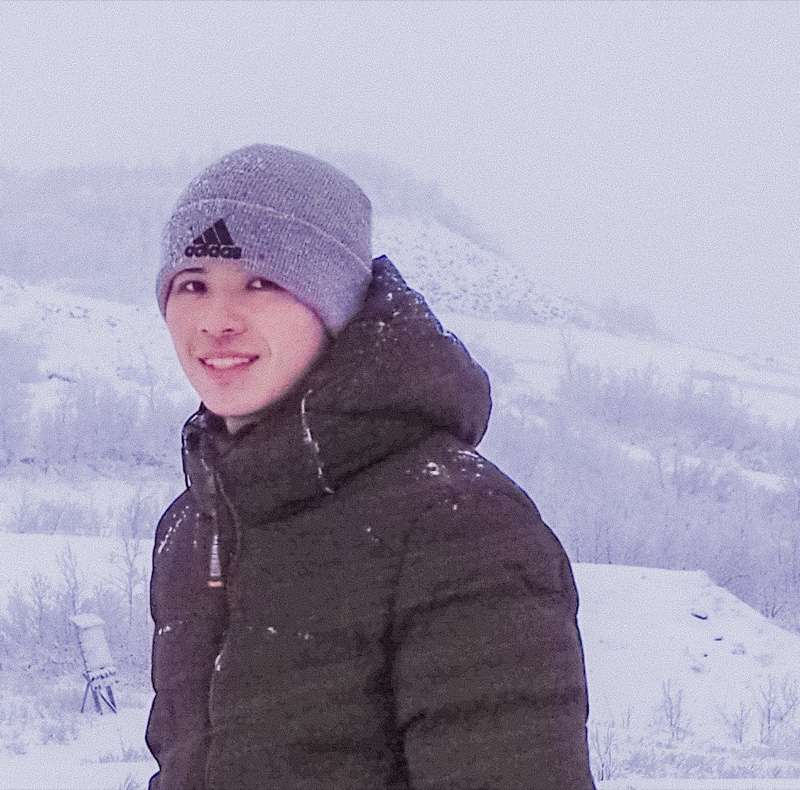
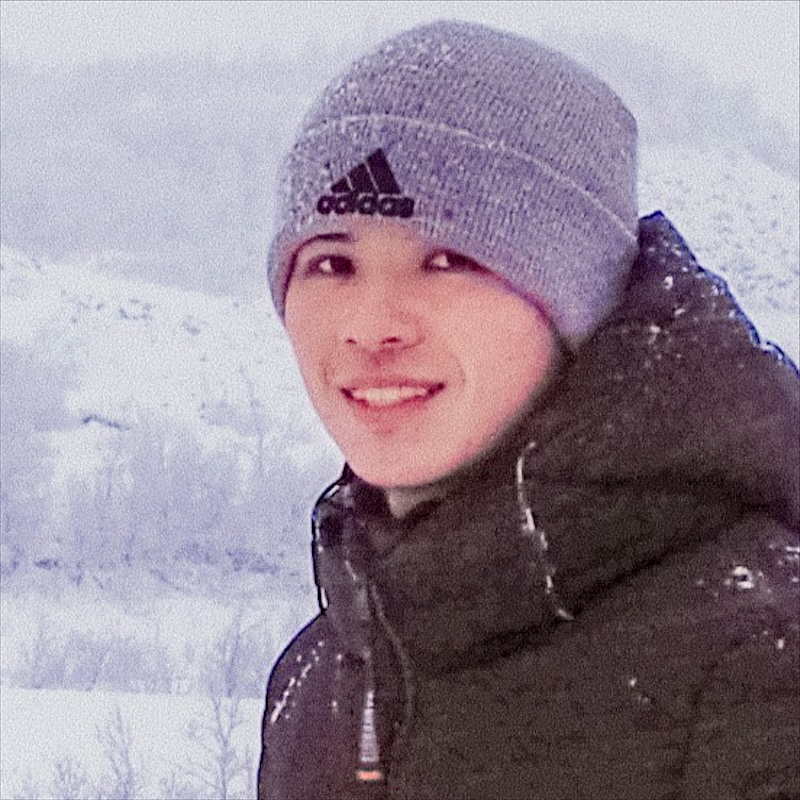
People: uniform face-centred 800px headshots; add scripts/portrait.swift

diff --git a/scripts/portrait.swift b/scripts/portrait.swift
@@ -1,0 +1,41 @@
+// Uniform headshot: detect face, square crop with the face at a fixed size and
+// position, gentle auto tone, 800x800 JPEG. Usage: swift portrait.swift in.jpg out.jpg
+import Foundation
+import CoreImage
+import Vision
+import ImageIO
+import UniformTypeIdentifiers
+
+let args = CommandLine.arguments
+let url = URL(fileURLWithPath: args[1]), outURL = URL(fileURLWithPath: args[2])
+guard let src = CIImage(contentsOf: url, options: [.applyOrientationProperty: true]) else { fatalError("read") }
+let img = src.transformed(by: CGAffineTransform(translationX: -src.extent.minX, y: -src.extent.minY))
+let W = img.extent.width, H = img.extent.height
+
+let req = VNDetectFaceRectanglesRequest()
+try VNImageRequestHandler(ciImage: img).perform([req])
+guard let face = (req.results ?? []).max(by: { $0.boundingBox.width < $1.boundingBox.width }) else { fatalError("no face") }
+let fb = face.boundingBox  // normalised, origin bottom-left
+let fx = fb.midX * W, fy = fb.midY * H, fw = fb.width * W
+
+// Face width = 38% of crop; face centre at 42% from the top.
+var side = min(fw / 0.38, W, H)
+var x = fx - side / 2
+var y = fy - side * (1 - 0.42)  // bottom edge in CI coords
+x = max(0, min(x, W - side)); y = max(0, min(y, H - side))
+var out = img.cropped(to: CGRect(x: x, y: y, width: side, height: side))
+out = out.transformed(by: CGAffineTransform(translationX: -x, y: -y))
+
+// Gentle auto tone (exposure/contrast/vibrance), no red-eye or crop.
+for f in out.autoAdjustmentFilters(options: [.redEye: false, .crop: false, .level: false]) {
+  f.setValue(out, forKey: kCIInputImageKey); out = f.outputImage!
+}
+let s = 800 / side
+out = out.applyingFilter("CILanczosScaleTransform", parameters: [kCIInputScaleKey: s, kCIInputAspectRatioKey: 1])
+out = out.cropped(to: CGRect(x: 0, y: 0, width: 800, height: 800))
+
+let ctx = CIContext()
+let cs = CGColorSpace(name: CGColorSpace.sRGB)!
+try ctx.writeJPEGRepresentation(of: out, to: outURL, colorSpace: cs,
+  options: [CIImageRepresentationOption(rawValue: kCGImageDestinationLossyCompressionQuality as String): 0.86])
+print(args[1], "face", Int(fw), "crop", Int(side))

diff --git a/content/people/inbox/README.md b/content/people/inbox/README.md
@@ -14,5 +14,6 @@ Nothing in this folder is published until then.
    git push
    ```
 
-Maintainers: copy the photo to `content/people/photos/<id>.jpg`, add the links to that person's
+Maintainers: run `swift scripts/portrait.swift <inbox photo> content/people/photos/<id>.jpg`
+(face-centred 800×800 crop with light auto tone, so all photos match), add the links to that person's
 entry in `content/people.yaml`, then delete both files from this folder.
